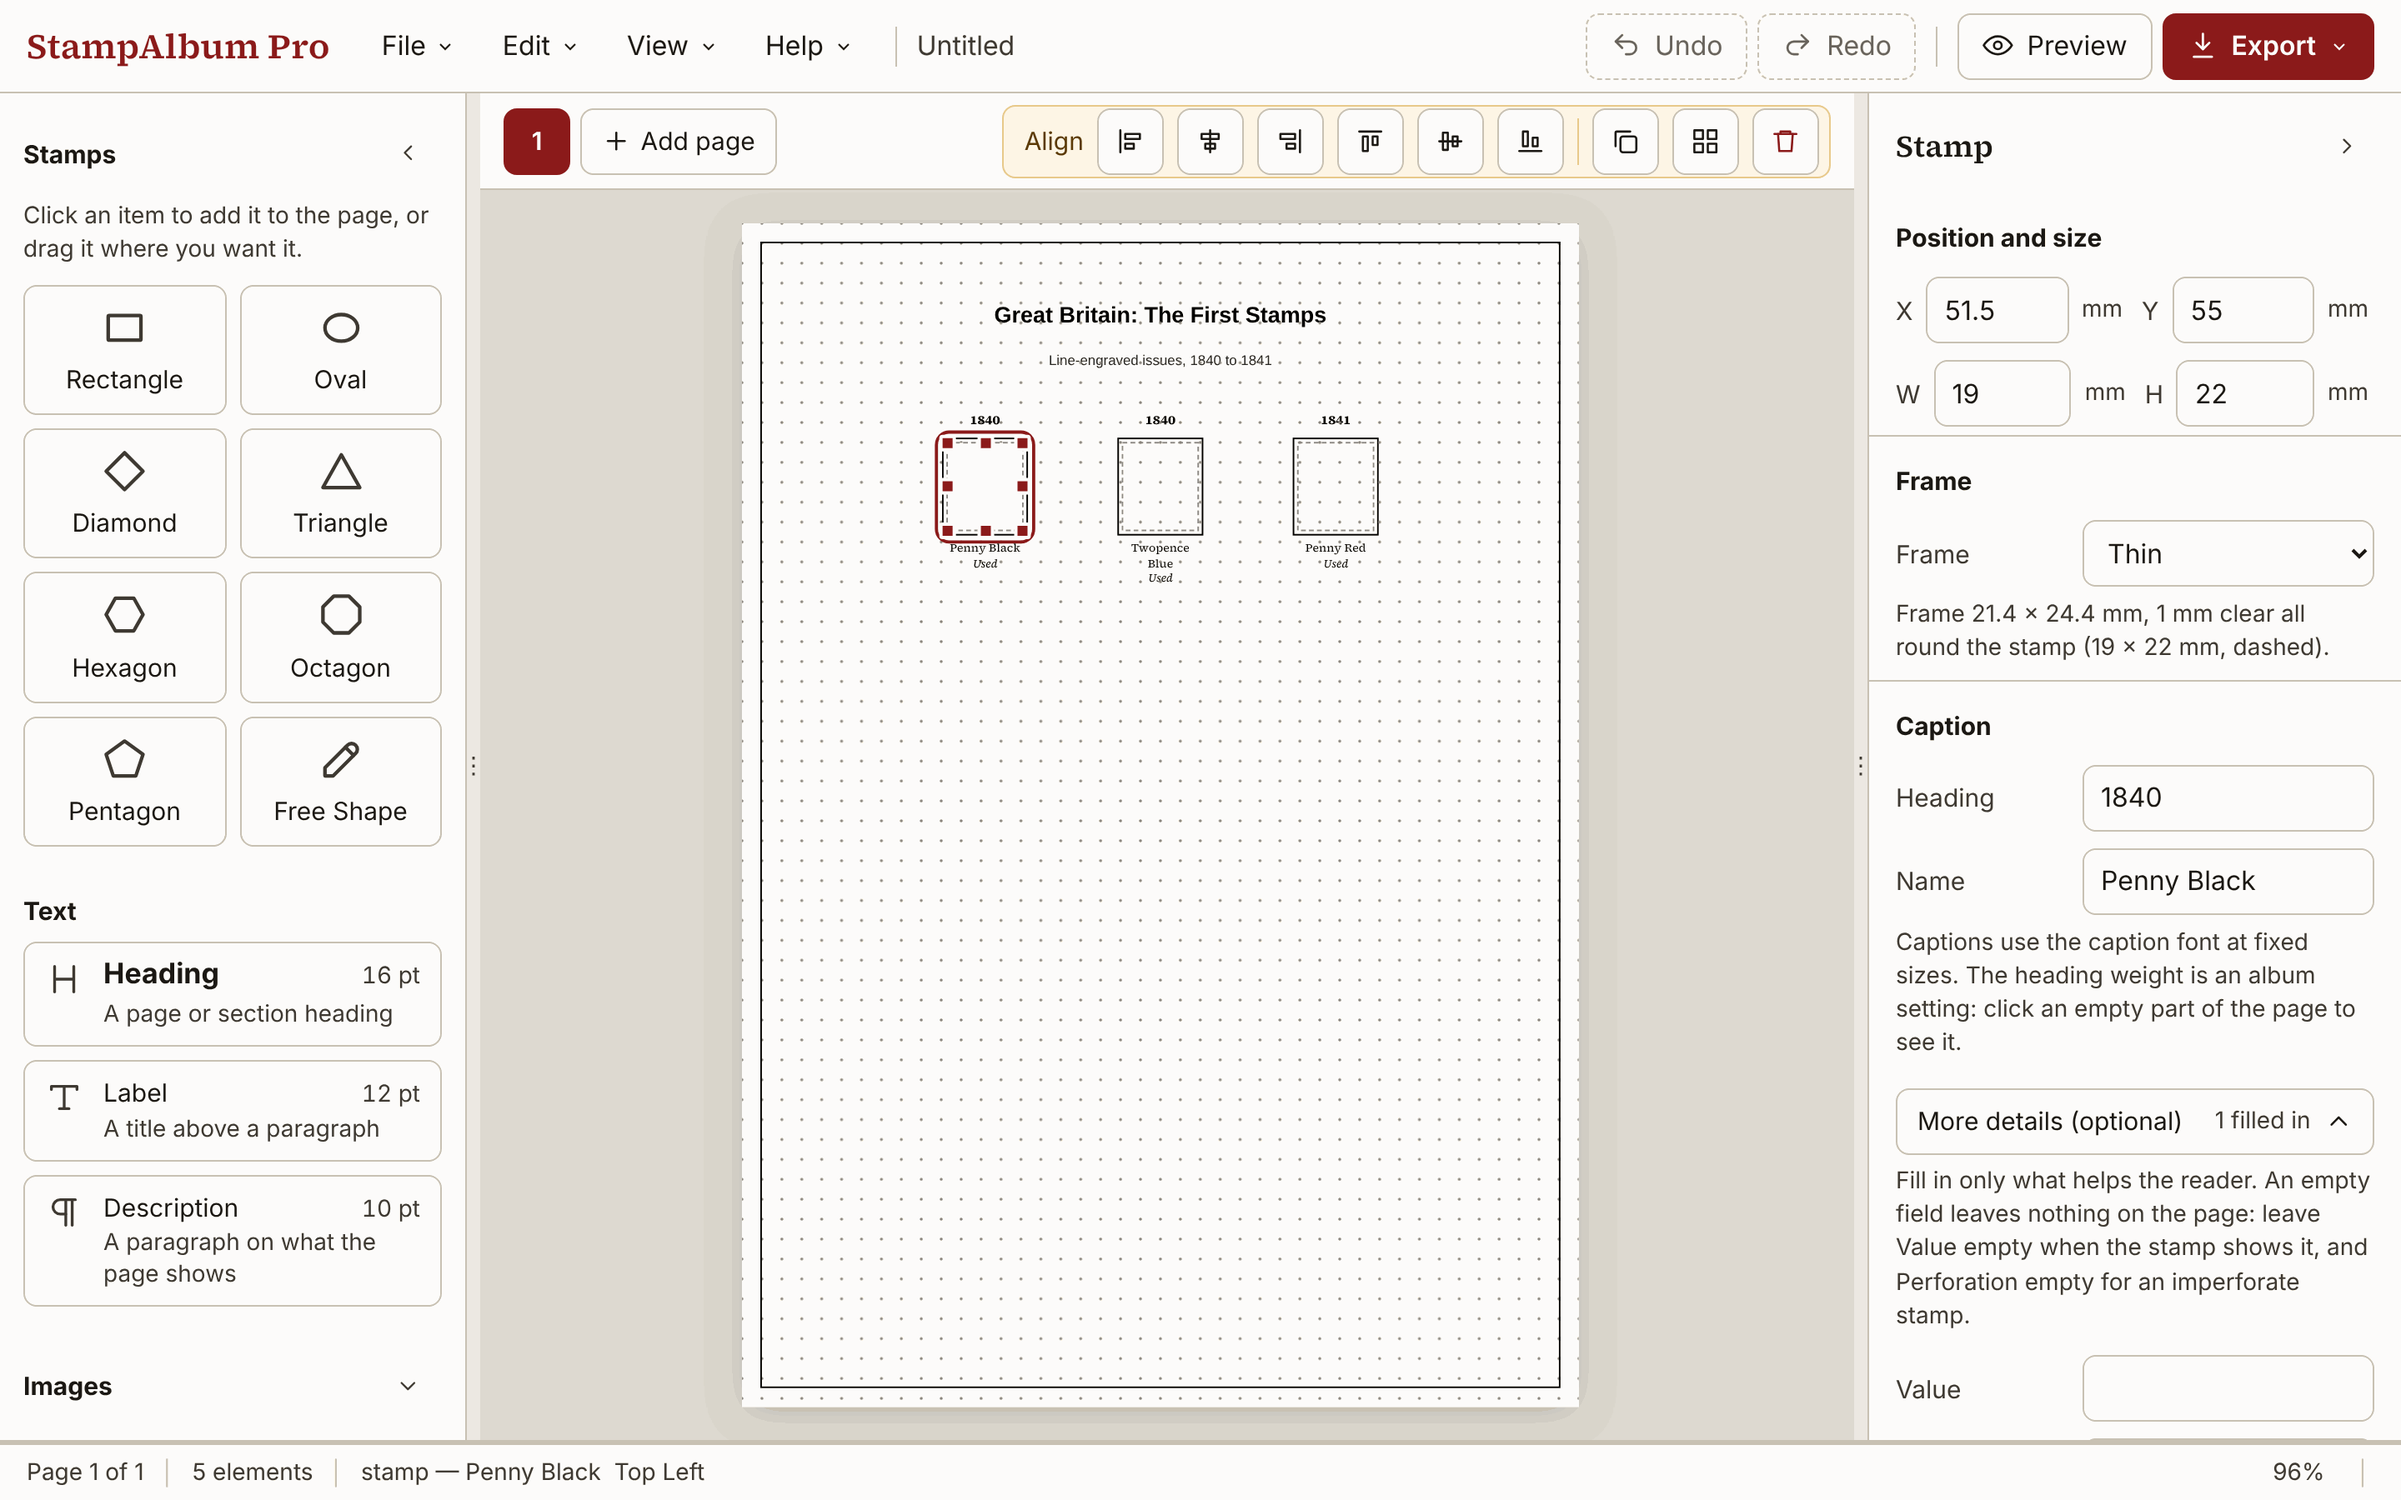
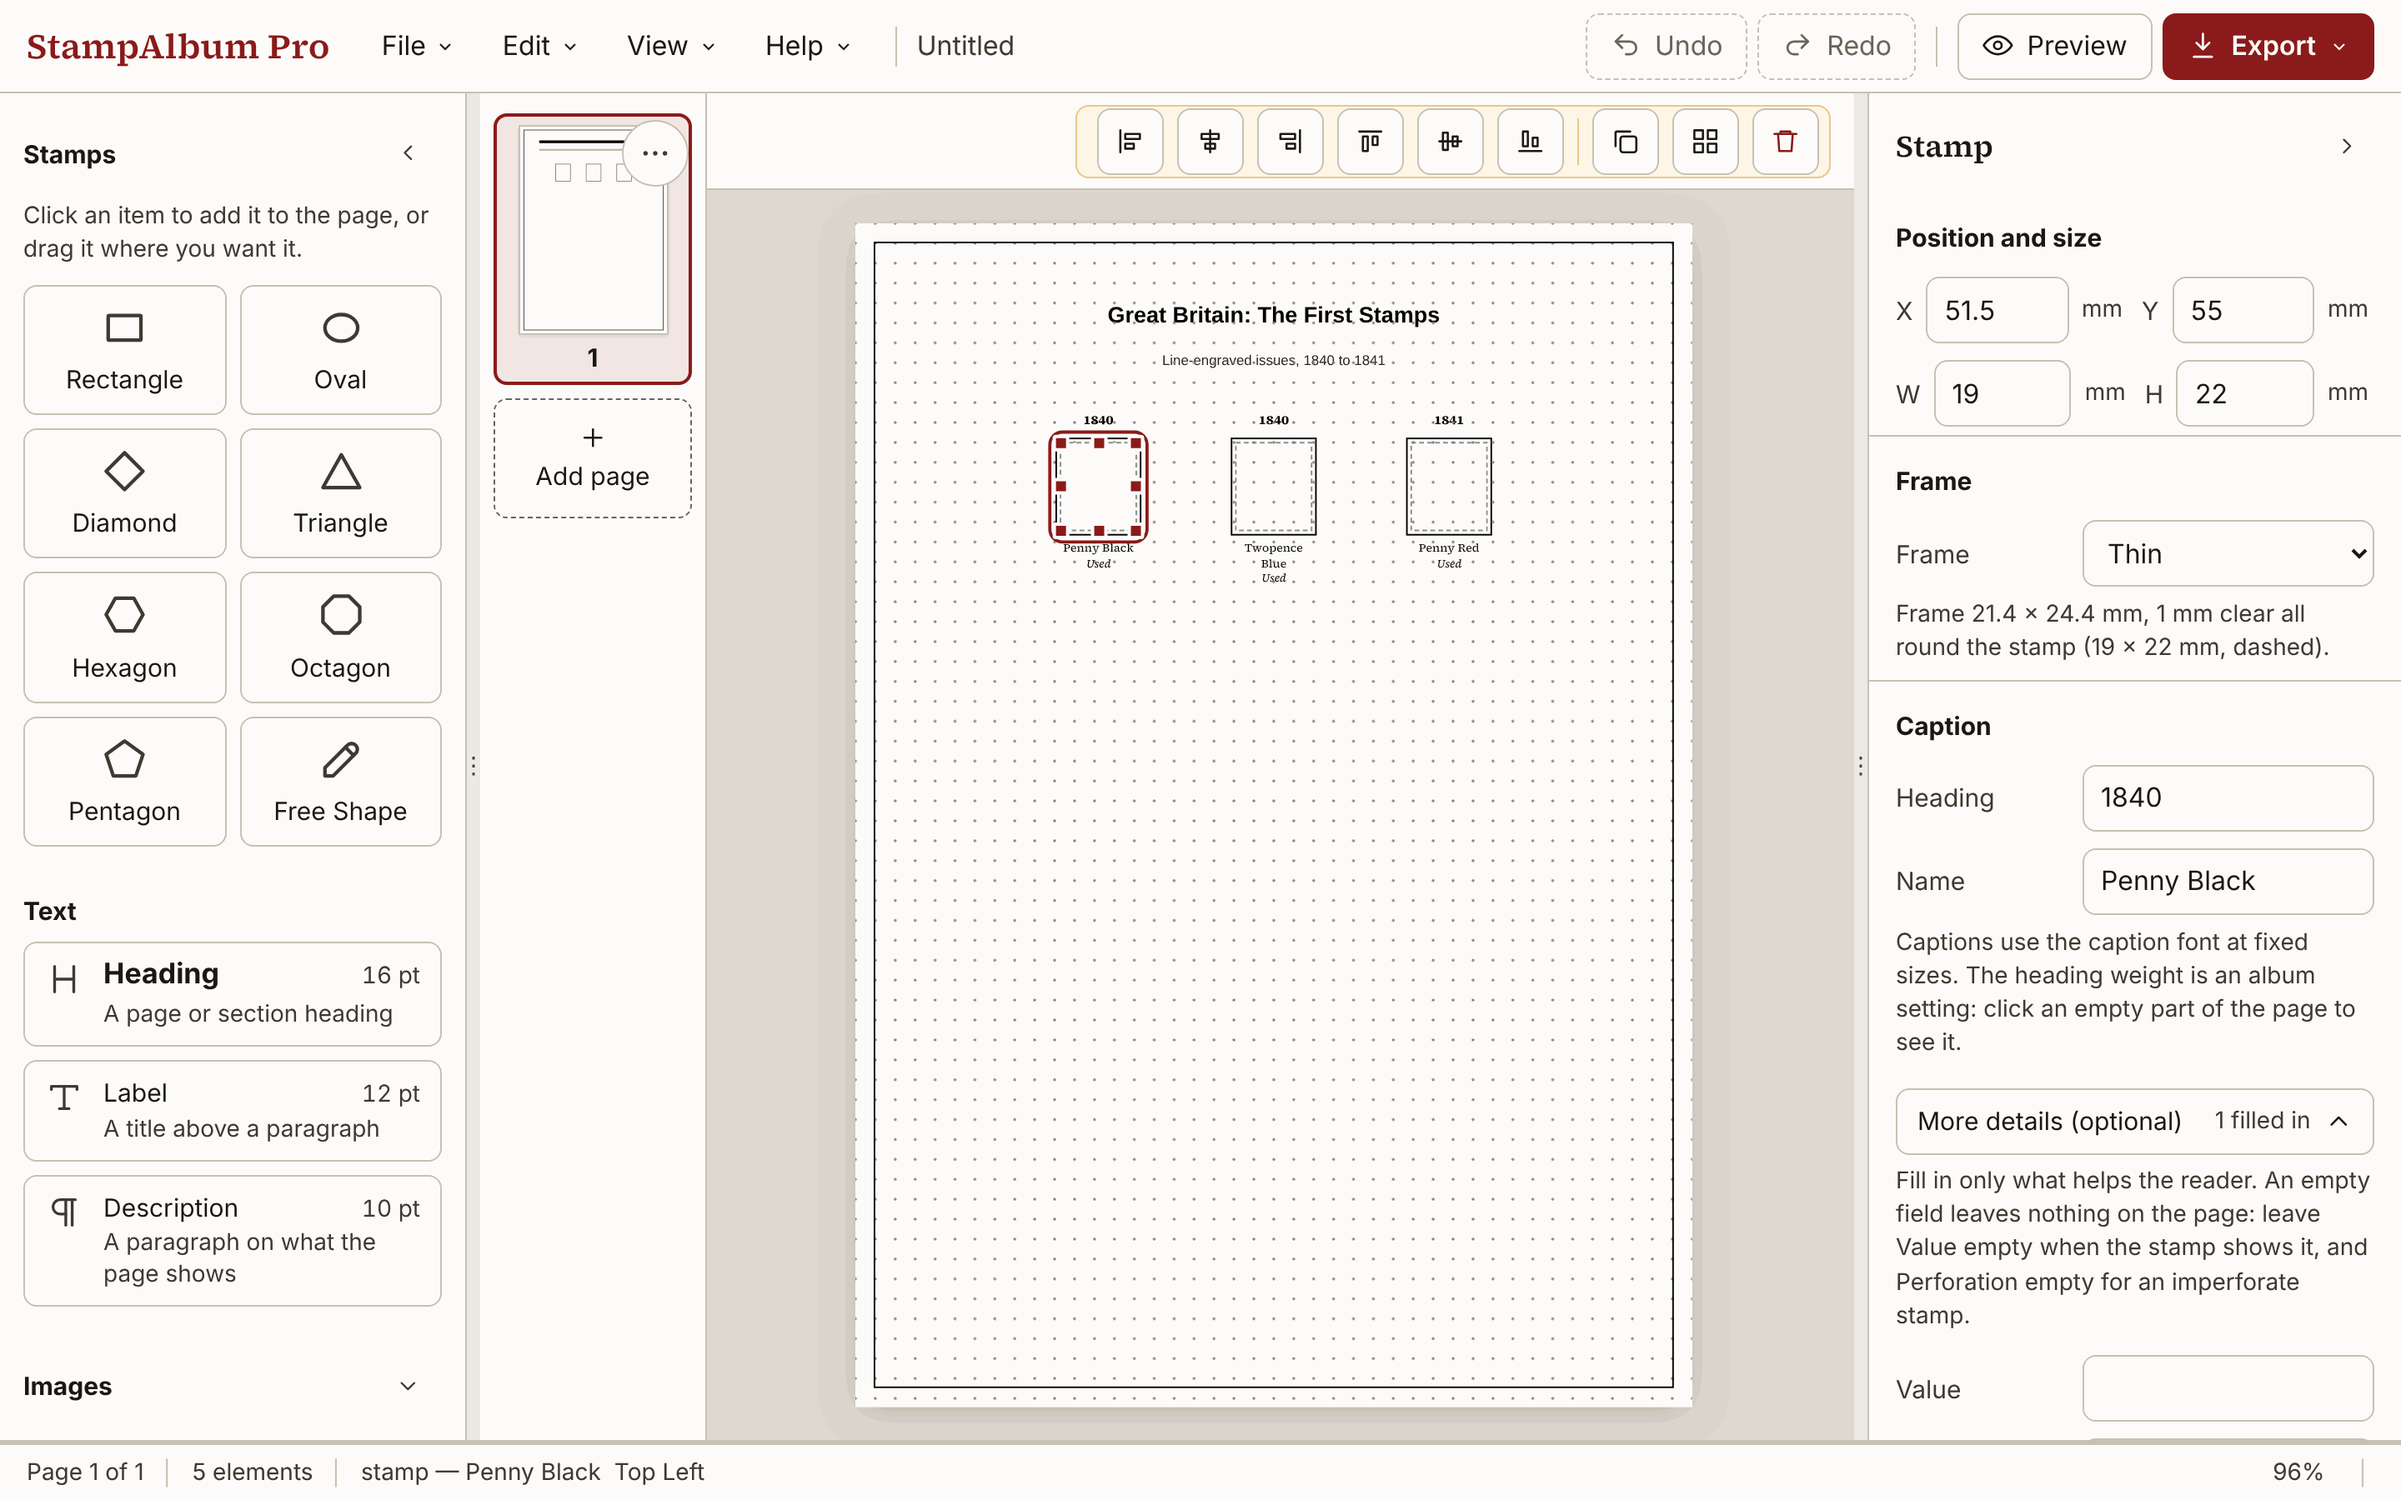
Fit-width test and pictures for the page strip
The strip takes 8.5rem of width, so Fit width enlarges a little less on a
14-inch MacBook (136%); Fit whole page, the default, is unchanged.
Tutorial and README pictures regenerated.

Claude-Session: https://claude.ai/code/session_01A3fbUrxq1yGaX221ZYm8VM

Changed region(s): [[0.1875, 0.0622, 0.625, 0.9644], [0.6562, 0.1244, 0.7188, 0.9644], [0.4062, 0.1867, 0.5938, 0.2489]]

diff --git a/src/tests/test_zoom_ui.py b/src/tests/test_zoom_ui.py
@@ -335,7 +335,8 @@ def test_a_stored_choice_beats_the_desktop_default(base_url):
         browser, pg = _desktop(p, {"width": 1512, "height": 982})
         _open(pg, base_url, stored="fit-width")
         g = _geometry(pg)
-        assert g["mode"] == "fit-width" and g["zoom"] > 1.5, g  # the width, enlarged
+        # the width, enlarged (beside the page strip, which takes 8.5rem of it)
+        assert g["mode"] == "fit-width" and g["zoom"] > 1.3, g
         browser.close()
 
 
